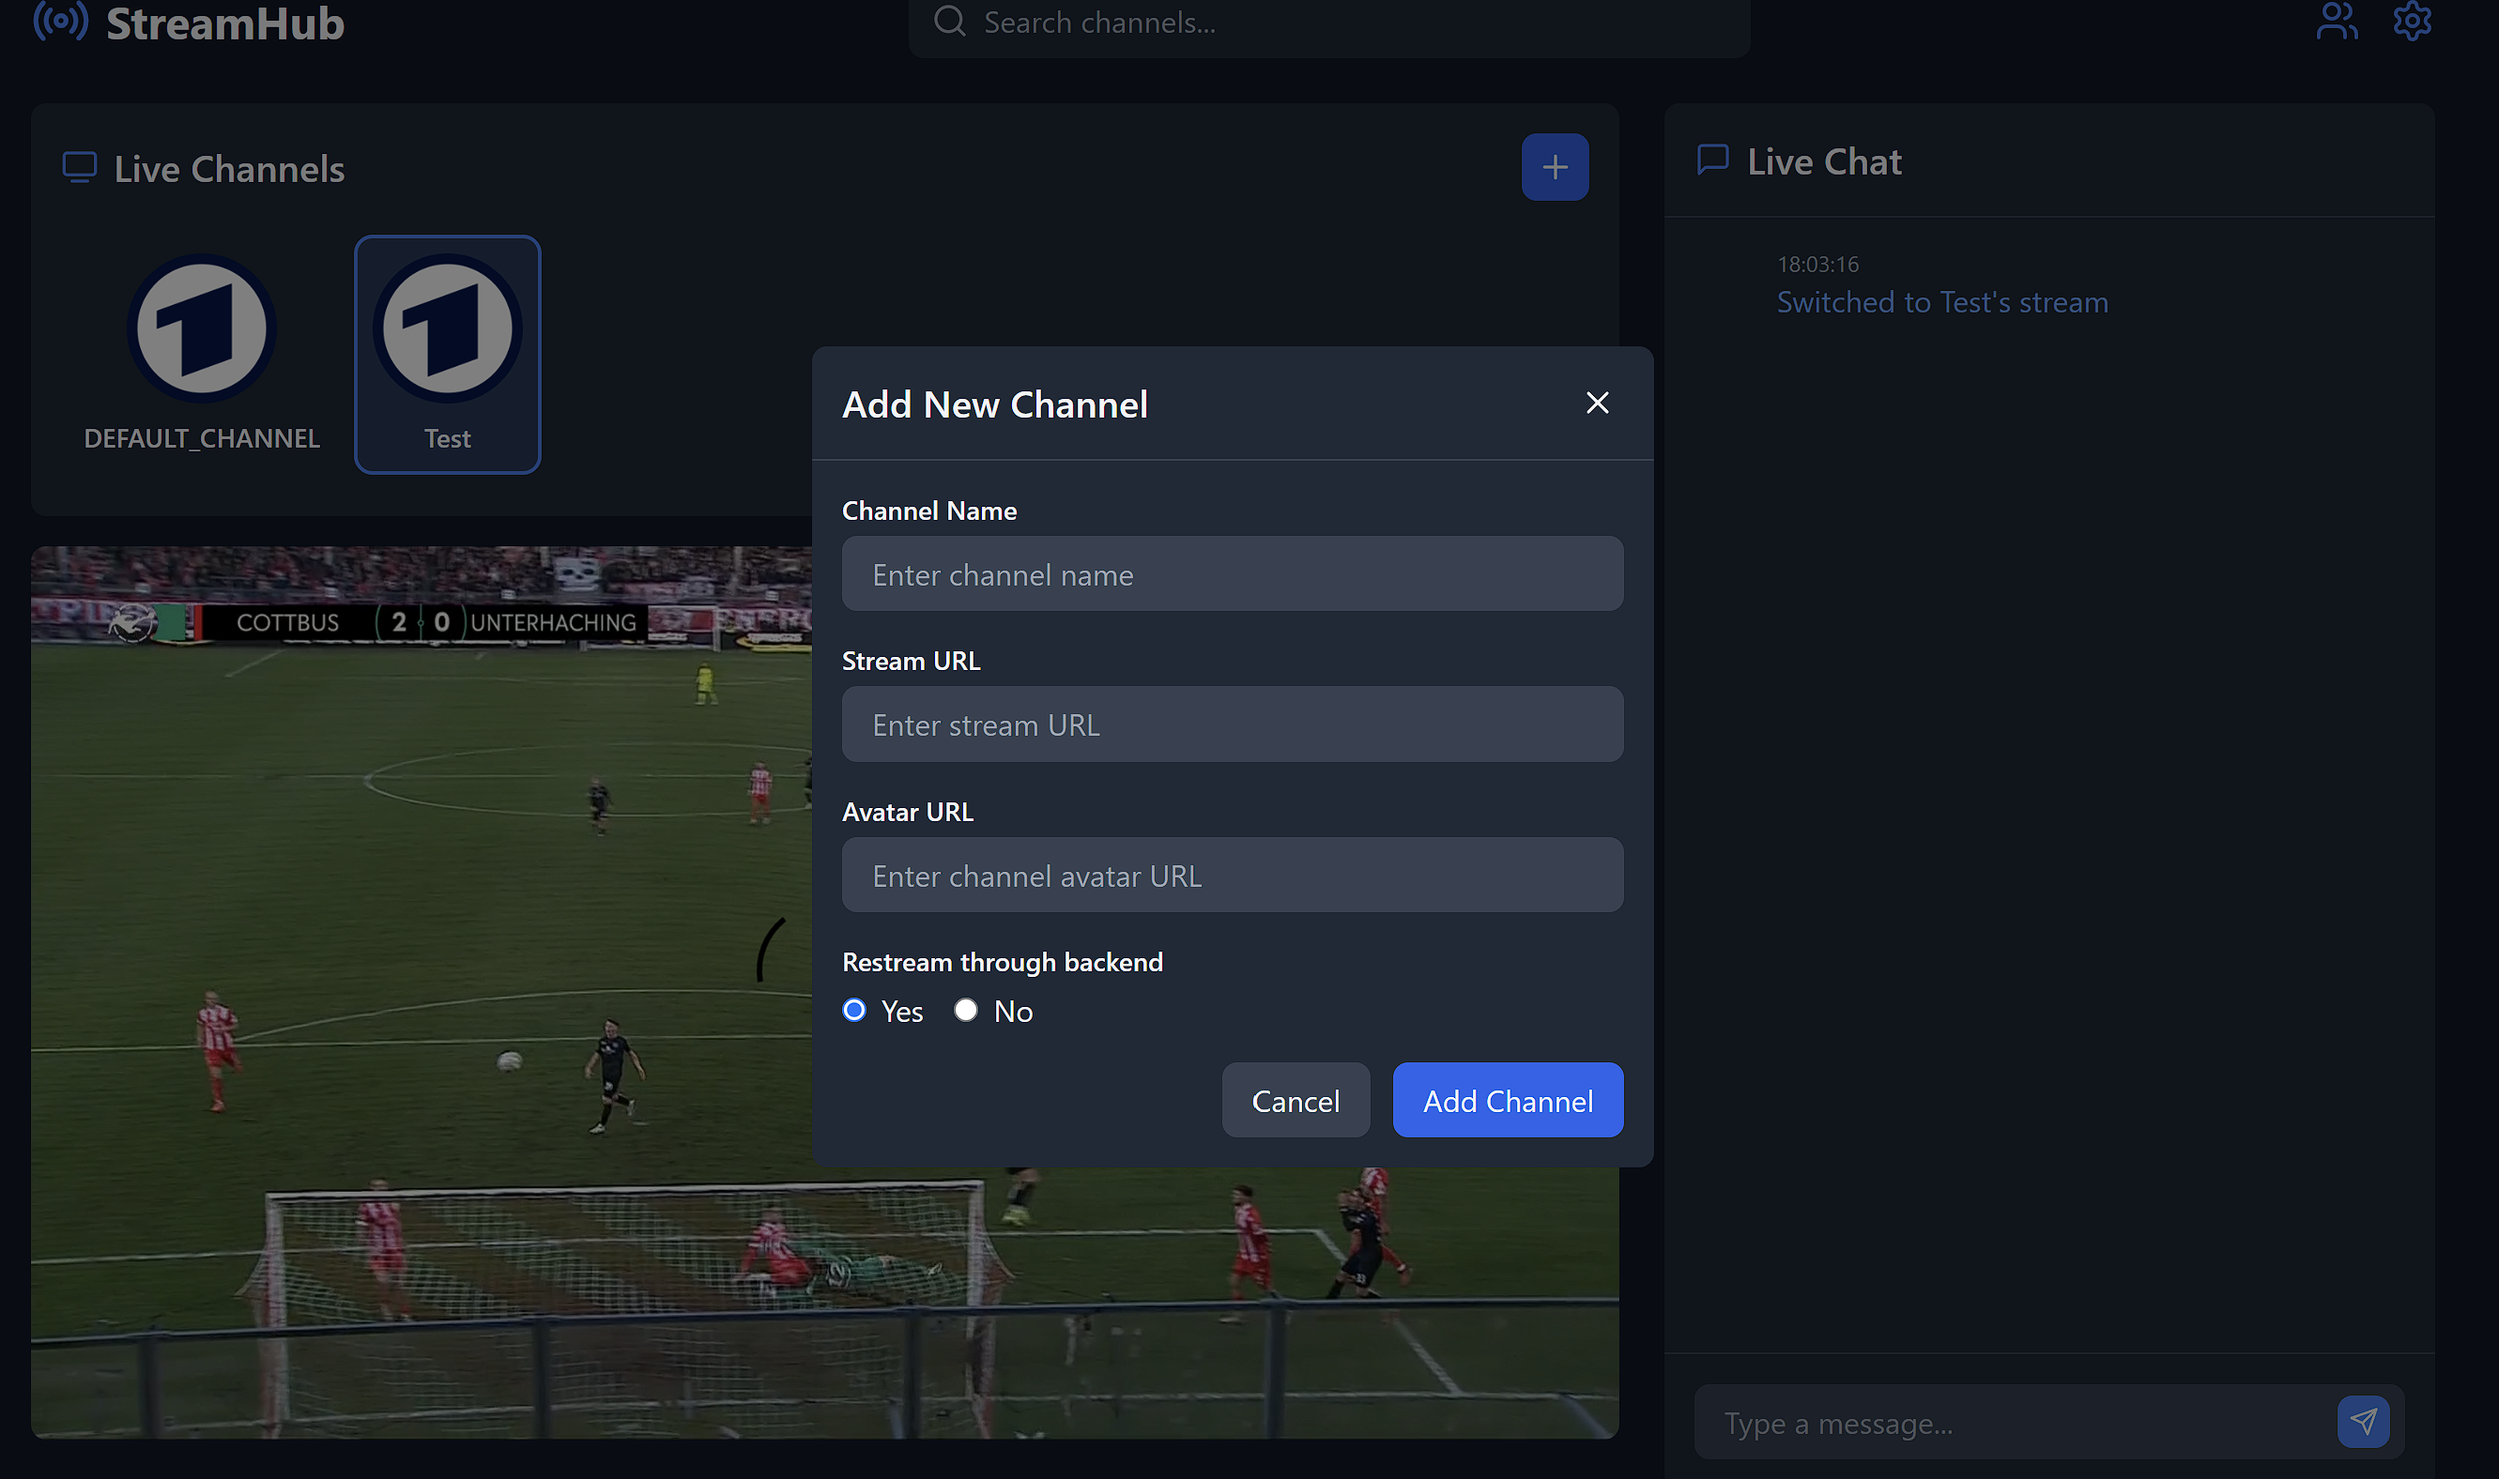
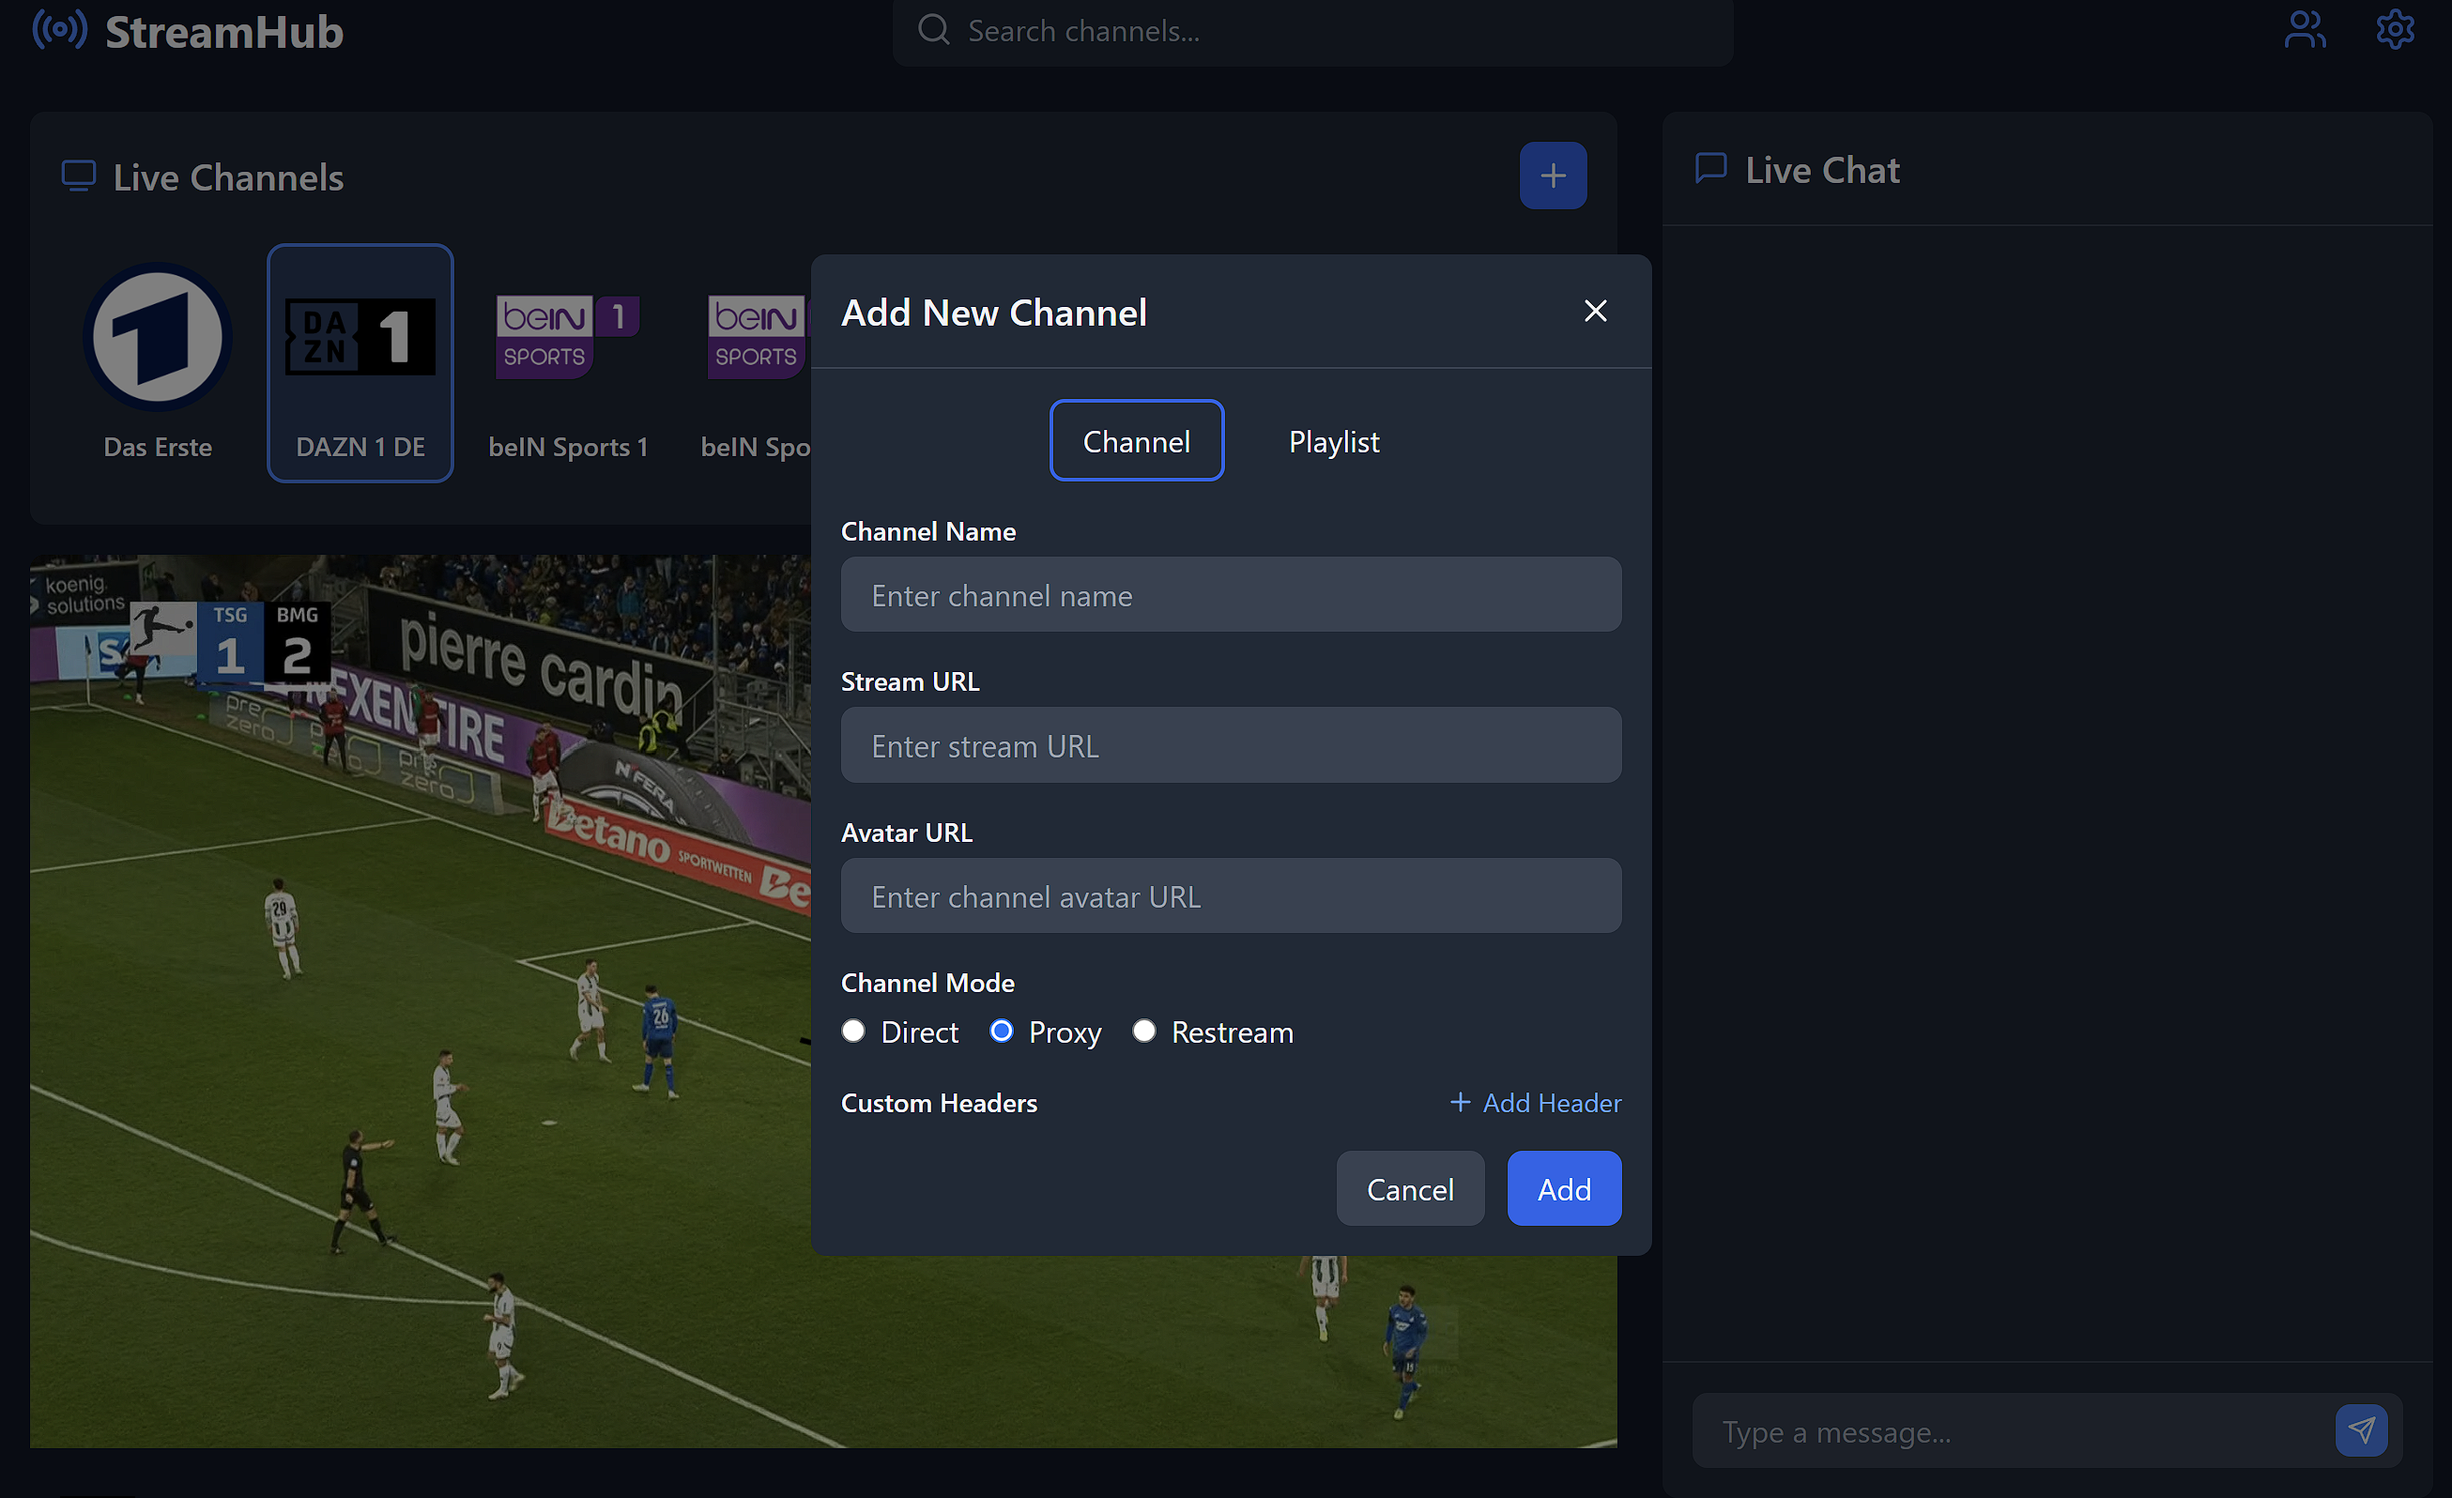
docs: add mode description

diff --git a/frontend/src/components/add_channel/ChannelModal.tsx b/frontend/src/components/add_channel/ChannelModal.tsx
@@ -1,9 +1,10 @@
 import React, { useState, useEffect, useContext } from 'react';
-import { Plus, Trash2, X } from 'lucide-react';
+import { Info, Plus, Trash2, X } from 'lucide-react';
 import socketService from '../../services/SocketService';
 import { CustomHeader, Channel, ChannelMode } from '../../types';
 import CustomHeaderInput from './CustomHeaderInput';
 import { ToastContext } from '../notifications/ToastContext';
+import { ModeTooltipContent, Tooltip } from '../Tooltip';
 
 interface ChannelModalProps {
   isOpen: boolean;
@@ -228,7 +229,12 @@ function ChannelModal({ isOpen, onClose, channel }: ChannelModalProps) {
                 />
               </div>
               <div>
-                <label className="block text-sm font-medium mb-1">Channel Mode</label>
+                <label className="block text-sm font-medium mb-1">
+                  <span className="inline-flex items-center gap-2">
+                    Channel Mode
+                    <Tooltip content={<ModeTooltipContent />} />
+                  </span>
+                </label>
                 <div className="flex items-center space-x-4">
                   <label className="flex items-center">
                     <input
@@ -286,7 +292,12 @@ function ChannelModal({ isOpen, onClose, channel }: ChannelModalProps) {
                 />
               </div>
               <div>
-                <label className="block text-sm font-medium mb-1">Channel Mode</label>
+                <label className="block text-sm font-medium mb-1">
+                  <span className="inline-flex items-center gap-2">
+                    Channel Mode
+                    <Tooltip content={<ModeTooltipContent />} />
+                  </span>
+                </label>
                 <div className="flex items-center space-x-4">
                 <label className="flex items-center">
                     <input

diff --git a/frontend/src/components/Tooltip.tsx b/frontend/src/components/Tooltip.tsx
@@ -1,0 +1,34 @@
+import { Info } from 'lucide-react';
+
+interface TooltipProps {
+  content: React.ReactNode;
+}
+
+export function Tooltip({ content }: TooltipProps) {
+  return (
+    <div className="group relative inline-flex items-center">
+      <Info className="w-4 h-4 text-blue-400 cursor-help" />
+      <div className="absolute left-0 bottom-full mb-2 w-96 bg-gray-900 p-3 rounded-lg shadow-lg opacity-0 invisible group-hover:opacity-100 group-hover:visible transition-all duration-200 z-50">
+        {content}
+        <div className="absolute left-1 bottom-[-6px] w-3 h-3 bg-gray-900 transform rotate-45"></div>
+      </div>
+    </div>
+  );
+}
+
+export const ModeTooltipContent = () => (
+  <div className="space-y-3 text-sm">
+    <div>
+      <span className="font-semibold text-blue-400">Direct</span>
+      <p>Directly uses the source stream. Won't work with most of the streams, because of CORS, IP/Device restrictions. Is also incompatible with custom headers and privacy mode.</p>
+    </div>
+    <div>
+      <span className="font-semibold text-blue-400">Proxy</span>
+      <p>The stream requests are proxied through the backend. Allows to set custom headers and bypass CORS. This mode is preffered. Only switch to restream mode, if proxy mode won't work for your stream or if you have synchronization issues.</p>
+    </div>
+    <div>
+      <span className="font-semibold text-blue-400">Restream</span>
+      <p>The backend service caches the source stream (with ffmpeg) and restreams it. Can help with hard device restrictions of your provider. But it can lead to long initial loading times and performance issues after time.</p>
+    </div>
+  </div>
+);

diff --git a/README.md b/README.md
@@ -1,33 +1,21 @@
 # IPTV StreamHub
 
-A simple IPTV `restream` and `synchronization` (watch2gether) application with web frontend. Share your iptv playlist and watch it together with your friends.
-
-## ✨ Features 
-**Restreaming** - Proxy your iptv streams through the backend.
-
-**Synchronization** - The playback of the stream is perfectly synchronized for all viewers.
-
-**Channels** - Add multiple iptv streams, you can switch between.
-
-**Live chat** - chat with other viewers with randomized profile.
-
+> [!INFO]  
+>A simple IPTV `restream` and `synchronization` (watch2gether) application with `web` frontend. Share your iptv playlist and watch it together with your friends.
+> Actively in devlopment and open your ideas! [Test it out](ante.is-a.dev) (Free channels for testing, use your own channels for production)
 
 ## 💡Use Cases
-- Connect with multiple Devices to 1 IPTV Stream, if your provider limits current devices.
-- Proxy all Requests through one IP.
-  - Helps with CORS issues.
-- Synchronize IPTV streaming with multiple devices: Synchronized playback and channel selection.
-- Share your iptv and watch together with your friends.
-  - The actual iptv stream-url is unvisible to them if you restream [upcomming feature]
+- [x] Connect with **multiple Devices** to 1 IPTV Stream, if your provider limits current streaming devices.
+- [x] Proxy all Requests through **one IP**.
+  - [x] Helps with CORS issues.
+- [x] **Synchronize** IPTV streaming with multiple devices: Synchronized playback and channel selection for perfect Watch2Gether.
+- [x] **Share your iptv access** without revealing your actual stream-url (privacy-mode) and watch together with your friends.
 
-## 🛠 Architecture
-
-### `Frontend`
-A simple React webpage that can stream iptv streams in hls-format. Provides synchronized playback by using a constant delay. Also supports multiple IPTV streams (channel selection) and a chat if using together with the backend.
-
-### `Backend`
-A simple NodeJS web server that retrieves your IPTV stream, caches it, and converts it into an HLS stream, making it accessible via the web. Also supports multiple IPTV streams (channel selection).
-
+## ✨ Features 
+**Restream / Proxy** - Proxy your iptv streams through the backend. <br>
+**Synchronization** - The selection and playback of the stream is perfectly synchronized for all viewers. <br>
+**Channels** - Add multiple iptv streams and playlists, you can switch between. <br>
+**Live chat** - chat with other viewers with a randomized profile.
 
 ## 🚀 Run
 
@@ -58,11 +46,27 @@ If you only need the **synchronization** functionality, you may only run the [fr
 
 Be aware, that this'll require additional configuration/adaption and won't be officially supported. It is recommended to [run the whole project as once](#run-with-docker).
 
-## Preview
+## 🖼 Preview
 ![Frontend Preview](/frontend/ressources/frontend-preview.png)
 ![Add channel](/frontend/ressources/add-channel.png)
 
+## ⚙ Settings
+
+### Channel Mode
+#### `Direct`
+Directly uses the source stream. Won't work with most of the streams, because of CORS, IP/Device restrictions. Is also incompatible with custom headers and privacy mode.
+
+#### `Proxy` (Preffered)
+The stream requests are proxied through the backend. Allows to set custom headers and bypass CORS. This mode is preffered. Only switch to restream mode, if proxy mode won't work for your stream or if you have synchronization issues.
+
+#### `Restream`
+The backend service caches the source stream (with ffmpeg) and restreams it. Can help with hard device restrictions of your provider. But it can lead to long initial loading times and performance issues after time.
+
 ## FAQ & Common Mistakes
+
+> Which streaming mode should I choose for the channel?
+
+You should try with direct mode first, switch to proxy mode if it doesn't work and switch to restream mode if this also doesn't work.
 
 > Error: `Bind for 0.0.0.0:80 failed: port is already allocated`
 

diff --git a/frontend/README.md b/frontend/README.md
@@ -1,5 +1,7 @@
 # Frontend
 
+A simple React webpage that can stream iptv streams in hls-format. Provides synchronized playback by using a constant delay. Also supports multiple IPTV streams (channel selection) and a chat if using together with the backend.
+
 ## 🚀 Run
 Setup a `.env` file or 
 equivalent environment variables:

diff --git a/backend/README.md b/backend/README.md
@@ -1,4 +1,6 @@
-# Frontend
+# Backend
+
+A simple NodeJS web server that retrieves your IPTV stream, caches it, and converts it into an HLS stream, making it accessible via the web. Also supports multiple IPTV streams (channel selection).
 
 ## 🚀 Run
 
